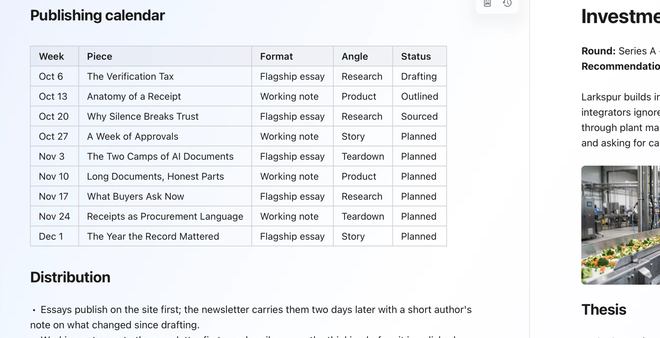
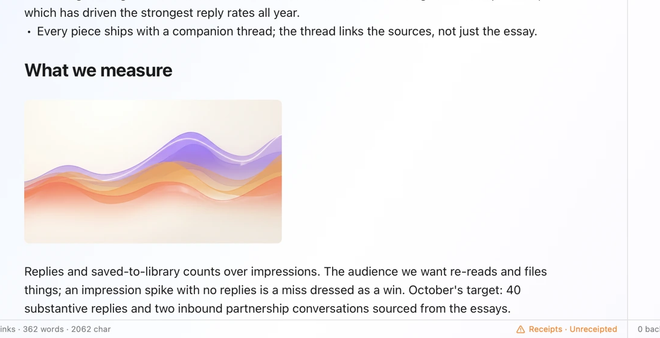
Lead the Flow social card with the chart, not the table
The card promised a beautiful document and answered with a nine-row grid of
Week, Piece, Format, Angle, and Status cells, which reads as a spreadsheet and
argues against its own headline. Table cells also collapse into grey noise at
the size a card is actually seen.

Same source capture and the same pre-cropped 660x338 frame, moved down the
document onto the "What we measure" section: the gradient area chart with its
heading and caption, and no table anywhere in frame. The chart is the one
element in that screenshot that still reads as designed at thumbnail size.

Note the chart is decorative rather than a labelled visualization, so the card
claims beauty and not charting capability.

diff --git a/src/data/og.ts b/src/data/og.ts
@@ -183,9 +183,10 @@ export const OG_PAGES: Record<string, OgPage> = {
     title: 'Conduct beautiful documents with AI agency built in',
     seed: 'flow',
     alt: 'Orionfold Flow: the Mac app where every AI change is a diff you approve, with a receipt naming what ran, where, and what it cost',
-    // Tracks the /flow/ hero picture (shotCharts): two documents side by side,
-    // with a publishing calendar table and a chart. Pre-cropped to the frame's
-    // native 660x338 so the table text stays crisp.
+    // Cropped from the /flow/ hero picture (shotCharts), onto the chart rather
+    // than the calendar table: the headline promises a BEAUTIFUL document, and a
+    // grid of cells reads as a spreadsheet. Pre-cropped to the frame's native
+    // 660x338 so the prose around the chart stays crisp.
     screenshot: 'src/assets/flow/og-flow-shot.png',
     light: true,
   },
